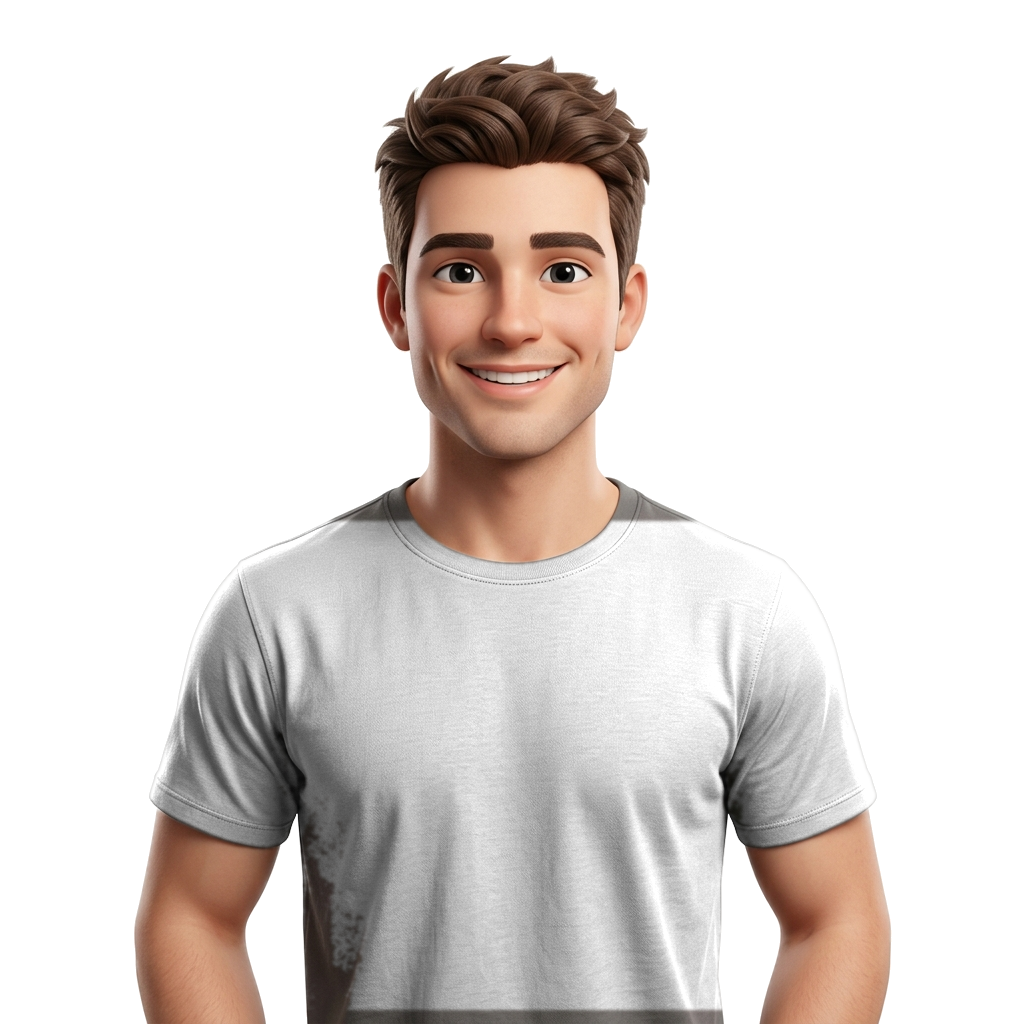
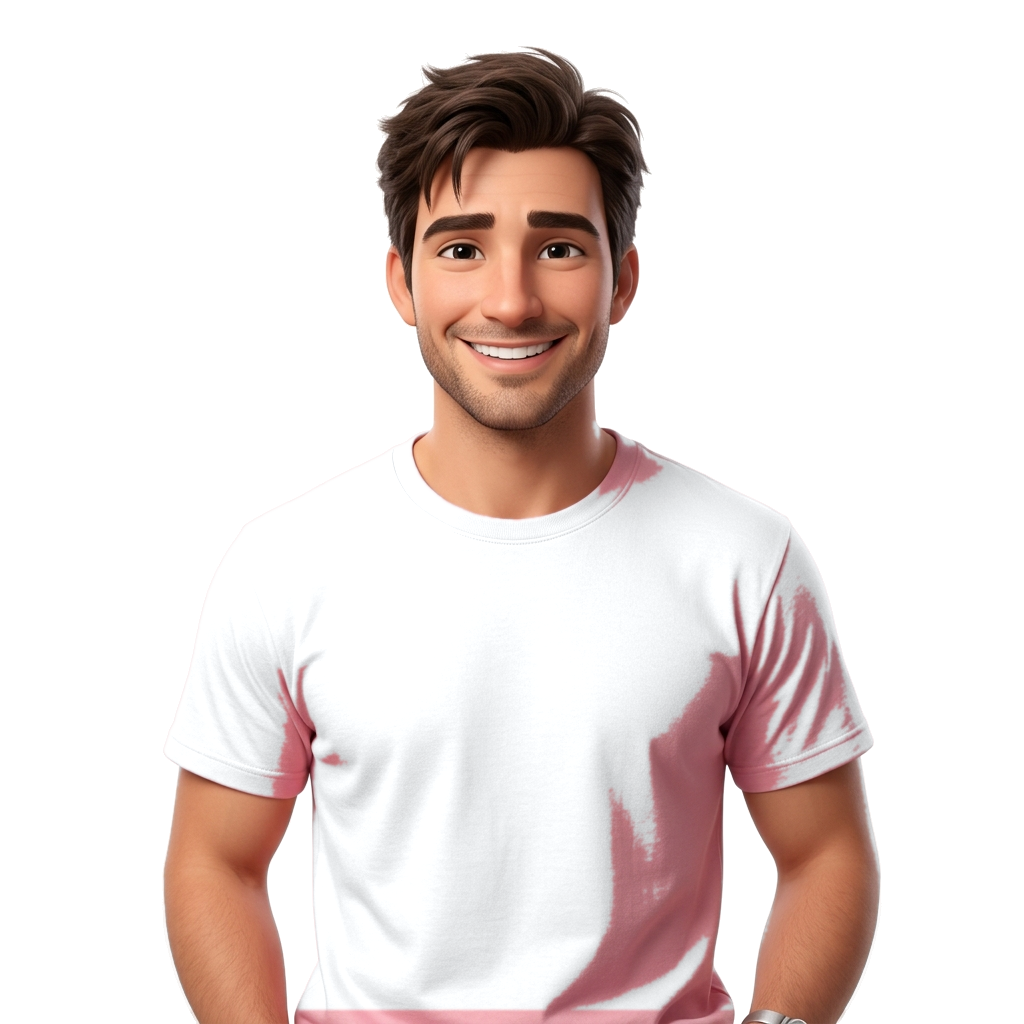
Regenerate 3D models with plain short-sleeve crewneck t-shirts and matching pink color

diff --git a/index.html b/index.html
@@ -86,7 +86,7 @@
           <div class="package-image-container">
             <div class="couple-images-row couple-close-pair">
               <img id="couple-s1-img" src="assets/3d-models/girl/light_pink.png" alt="Partner 1 (Girl) 3D Model" class="tshirt-preview-img model-3d-img couple-girl-img">
-              <img id="couple-s2-img" src="assets/3d-models/boy/black.png" alt="Partner 2 (Boy) 3D Model" class="tshirt-preview-img model-3d-img couple-boy-img">
+              <img id="couple-s2-img" src="assets/3d-models/boy/light_pink.png" alt="Partner 2 (Boy) 3D Model" class="tshirt-preview-img model-3d-img couple-boy-img">
             </div>
           </div>
 

diff --git a/js/app.js b/js/app.js
@@ -3,7 +3,7 @@
  */
 
 document.addEventListener("DOMContentLoaded", () => {
-  // State for Couple T-Shirt Package
+  // State for Couple T-Shirt Package (Same matching color by default)
   const coupleState = {
     packageId: "couple",
     packageName: "Couple T-Shirt",
@@ -12,7 +12,7 @@ document.addEventListener("DOMContentLoaded", () => {
     letter2: "S",
     shirt1Color: "light_pink",
     shirt1Size: "M",
-    shirt2Color: "black",
+    shirt2Color: "light_pink",
     shirt2Size: "L"
   };
 
